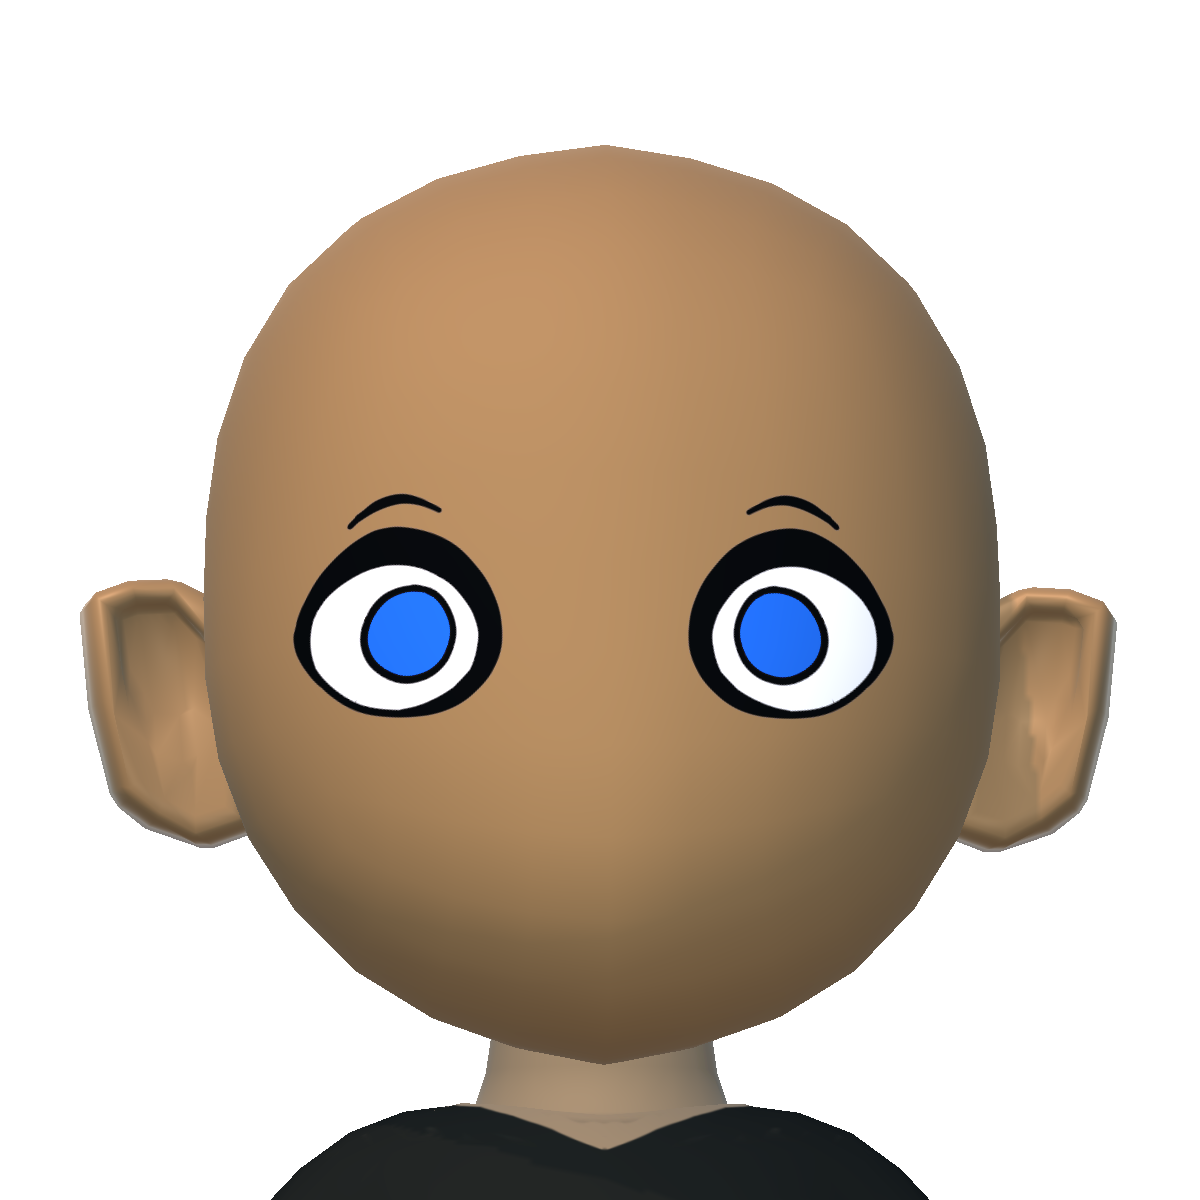
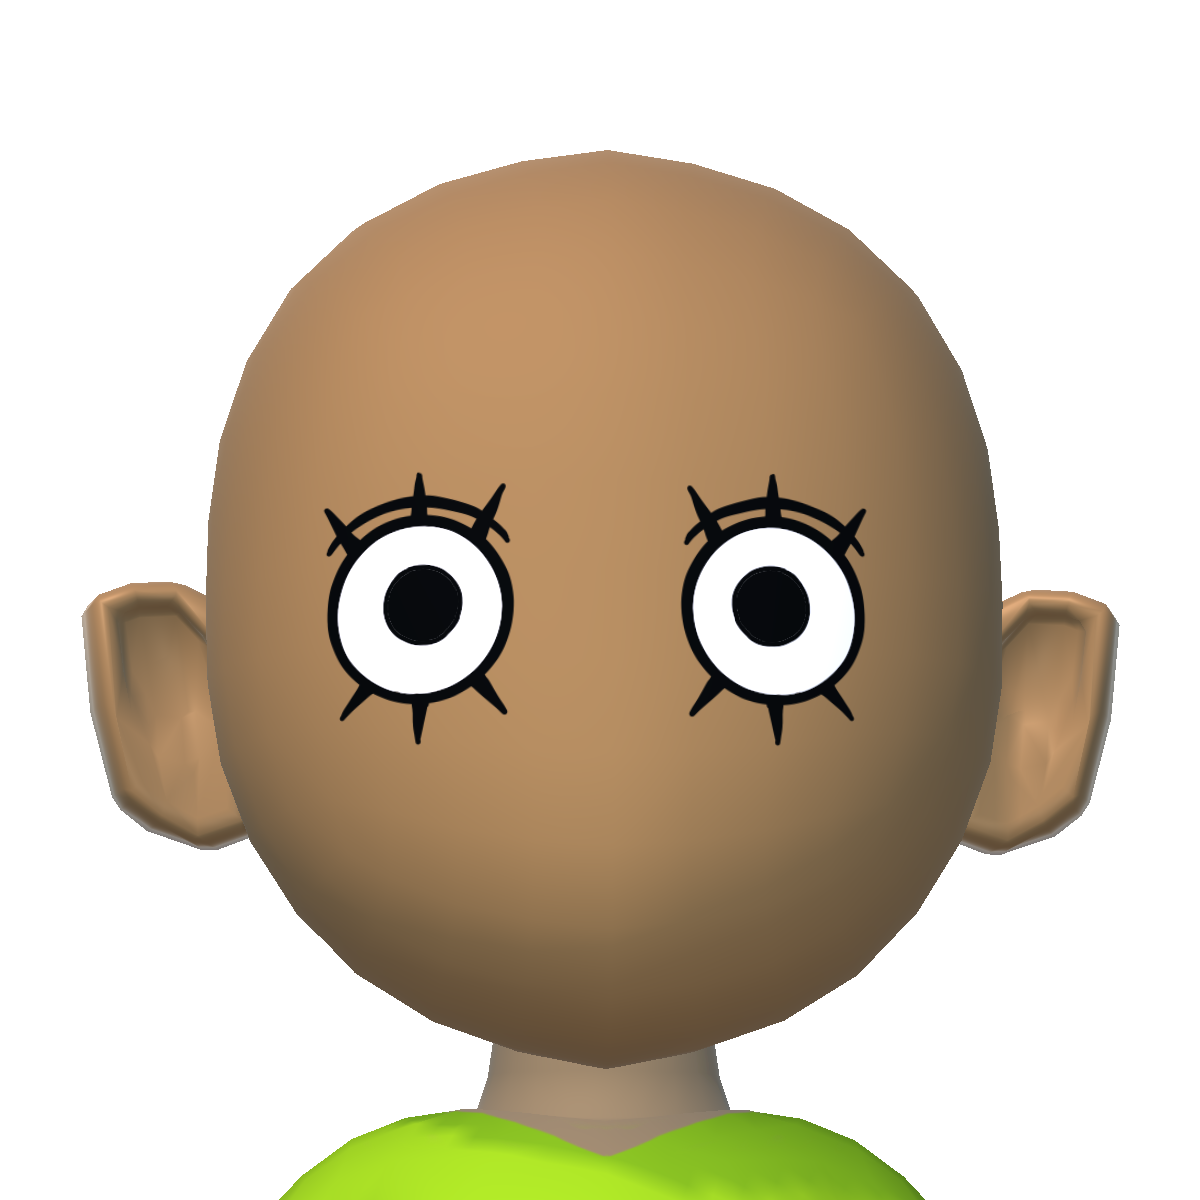
extras now shows extras

diff --git a/Assets/HouseController.cs b/Assets/HouseController.cs
@@ -9,6 +9,12 @@ public class HouseController : MonoBehaviour
     
     private ID _id;
     private NeighborhoodController _controller;
+    private float timeWhenEnabled = 0;
+
+    private void OnEnable()
+    {
+        timeWhenEnabled = Time.time;
+    }
 
     private void Update()
     {
@@ -40,6 +46,8 @@ public class HouseController : MonoBehaviour
 
     private bool IsHovered()
     {
+        if (Time.time - timeWhenEnabled < 1) return false;
+
         Ray ray = Camera.main.ScreenPointToRay(Input.mousePosition);
         var didHit = Physics.Raycast(ray, out var hitInfo);
         if (!didHit) return false;

diff --git a/Assets/Scripts/FaceMenu.cs b/Assets/Scripts/FaceMenu.cs
@@ -53,6 +53,7 @@ public class FaceMenu : MonoBehaviour
         else if (category == FeatureCategory.EYEBROWS) _layers.Initialize(FeatureSubType.BROWS);
         else if (category == FeatureCategory.NOSE) _layers.Initialize(FeatureSubType.NOSE);
         else if (category == FeatureCategory.MOUTH) _layers.Initialize(FeatureSubType.LIPS);
+        else if (category == FeatureCategory.EXTRAS) _layers.Initialize(FeatureSubType.MISC);
         else _layers.Initialize(FeatureSubType.LIPS);
 
         SwitchToTab(0);
